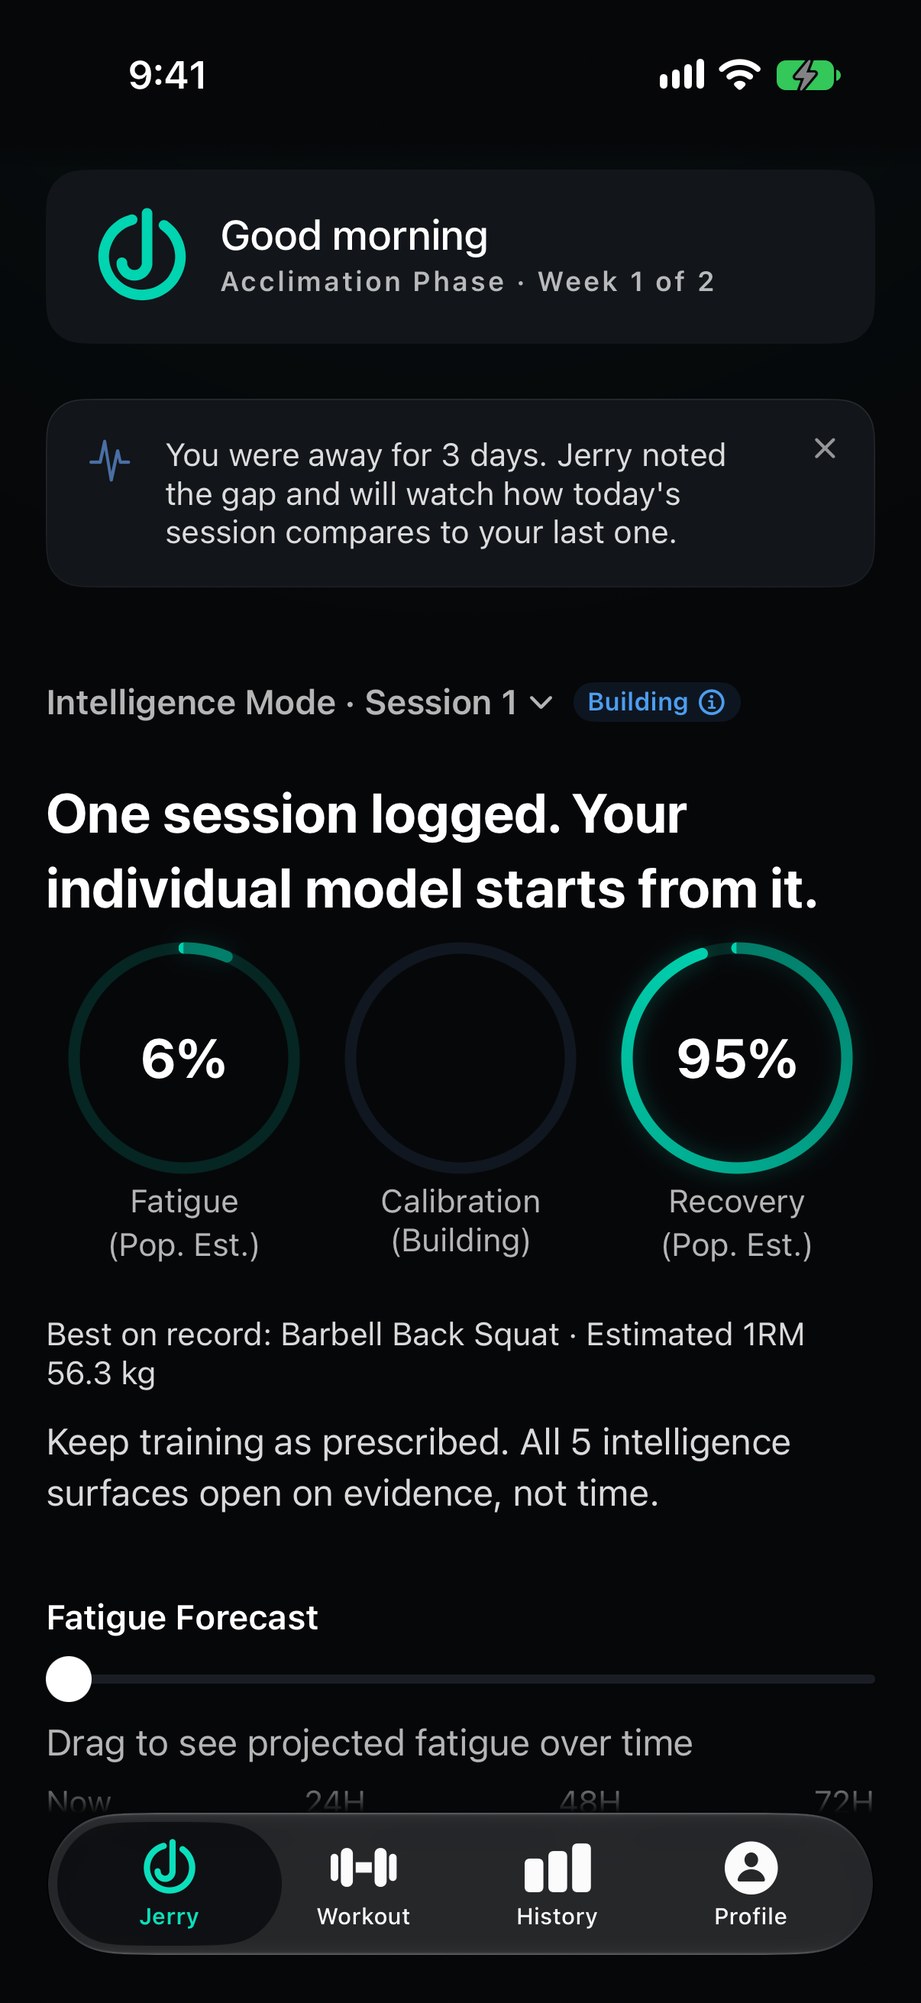
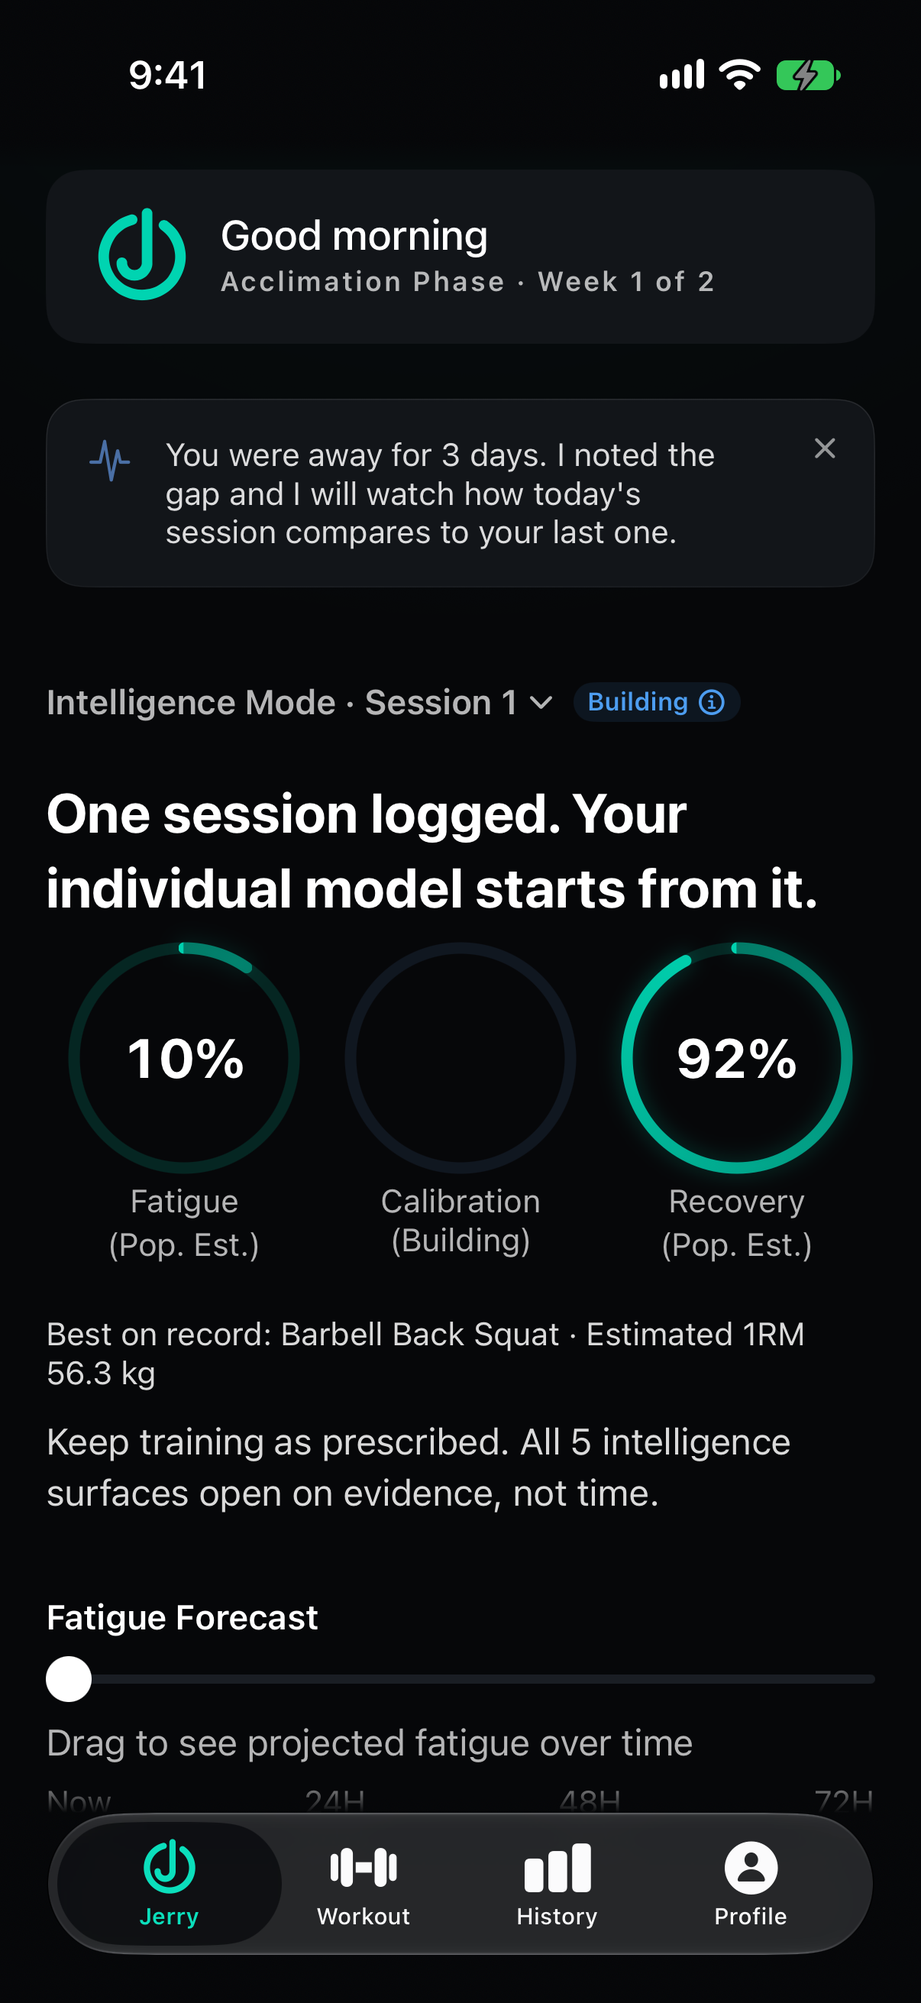
Every frame re-shot, because a coach who calls himself Jerry is not the product
[verify-exempt: SEPARATE website repo, zero Swift. Ten screenshots, two HTML files, one
string map. The app-side change (the banner itself) is committed separately behind its own
`verify.sh fast`. ./check.sh: SITE OK, exit 0, twelve gates, twenty pages.]

WHAT A USER CAN NOW DO: read a banner written in the voice of the coach who is talking to
them, and see the same four screens whichever language they read the site in.

THE CEO FOUND THREE THINGS IN TWO SCREENSHOTS AND ALL THREE WERE REAL.

1. 🔒 JERRY DOES NOT REFER TO JERRY. The dashboard banner read "You were away for 3 days.
   Jerry noted the gap and will watch..." while the other FIVE arms of that same function
   say "I will compare", "I'll ease", "I've adjusted", "I've noted", "We start". One
   third-person outlier, and it was the arm that renders on the hero and on frame one of
   the pressure test. Fixed in both languages, which invalidated every published frame.

2. 🔒 A LOCALISED PAGE IS A TRANSLATION OF ONE ARGUMENT, NOT A SECOND ARGUMENT. Two of the
   four English frames had NO Spanish test arm, so /es/ substituted two scrolled captures
   of a different screen. Both pages were internally honest and the PAIR was incoherent.
   Two new Spanish arms now photograph the answered-soreness dashboard and the Full
   Intelligence sheet, so the pages show the same four screens one-to-one.

3. THE SAME SCREENSHOT WAS USED THREE TIMES. `dashboard` appeared in the hero, the gallery
[…]

diff --git a/es/index.html b/es/index.html
@@ -178,8 +178,8 @@ details.raw pre{font-family:var(--mono);font-size:.6875rem;color:var(--ink3);ove
           <div class="device device--back">
             <div class="device__body"><div class="device__glass">
               <div class="device__screenwrap">
-                <img class="device__screen" src="/assets/shots/es-unlocks.webp?v=da9761d5e5" width="1206" height="2622" loading="lazy" decoding="async"
-                     alt="El panel de OrderedStrength más abajo, en español. Una tarjeta marcada Población dice Tu ritmo es normal y nombra su fuente, y debajo hay una puerta llamada Mapa de Desbloqueos cuyo subtítulo es Qué sigue y qué hace falta para abrirlo.">
+                <img class="device__screen" src="/assets/shots/es-evidence.webp?v=9c32c6dbb6" width="1206" height="2622" loading="lazy" decoding="async"
+                     alt="La hoja de Inteligencia completa en español, en la pestaña Biológico. Se titula Inteligencia de confianza, lleva la insignia Población, y enumera las investigaciones abiertas nombrando la evidencia que cada una todavía necesita.">
               </div>
               <span class="device__island" aria-hidden="true"></span><span class="device__sheen" aria-hidden="true"></span>
             </div></div>
@@ -188,8 +188,8 @@ details.raw pre{font-family:var(--mono);font-size:.6875rem;color:var(--ink3);ove
           <div class="device device--front">
             <div class="device__body"><div class="device__glass">
               <div class="device__screenwrap">
-                <img class="device__screen" src="/assets/shots/es-dashboard.webp?v=c91853bcce" width="1206" height="2622" fetchpriority="high" decoding="async"
-                     alt="El panel de OrderedStrength en español después de una sesión registrada. La insignia de modo dice Construyendo, los anillos de fatiga y recuperación están marcados Est. pobl. en 9 y 92 por ciento, y el anillo de Calibración no lleva ningún número.">
+                <img class="device__screen" src="/assets/shots/es-session3.webp?v=f83c5bfa87" width="1206" height="2622" fetchpriority="high" decoding="async"
+                     alt="El panel de OrderedStrength en español después de tres sesiones registradas. La insignia de modo dice Construyendo, la fatiga y la recuperación están marcadas Est. pobl. en 15 y 88 por ciento, y el titular dice que el modelo individual se construye con cada una.">
               </div>
               <span class="device__island" aria-hidden="true"></span><span class="device__sheen" aria-hidden="true"></span>
             </div></div>
@@ -291,7 +291,7 @@ details.raw pre{font-family:var(--mono);font-size:.6875rem;color:var(--ink3);ove
       <div class="device">
         <div class="device__body"><div class="device__glass">
           <div class="device__screenwrap">
-            <img class="device__screen" src="/assets/shots/es-dashboard.webp?v=c91853bcce" width="1206" height="2622" loading="lazy" decoding="async"
+            <img class="device__screen" src="/assets/shots/es-dashboard.webp?v=a3ce4874d0" width="1206" height="2622" loading="lazy" decoding="async"
                  alt="El panel de OrderedStrength en español después de una sesión registrada, con la insignia de Modo de inteligencia en Construyendo, los anillos de fatiga y recuperación marcados Est. pobl., y una línea que dice que las cinco superficies de inteligencia se abren con evidencia, no con tiempo.">
         <span class="pin" style="left:93.5%;top:38.5%" data-pin="0">1</span>
         <span class="pin" style="left:6.5%;top:68%" data-pin="1">2</span>
@@ -427,20 +427,20 @@ field   sealedFor = 1755916800</pre>
         <div class="device">
           <div class="device__body"><div class="device__glass">
             <div class="device__screenwrap">
-              <img class="device__screen" src="/assets/shots/es-dashboard.webp?v=c91853bcce" width="1206" height="2622" loading="lazy" decoding="async"
-                   alt="El panel en español después de una sesión registrada. La fatiga marca 9 por ciento y la recuperación 92 por ciento, ambas etiquetadas Est. pobl., el anillo de Calibración no lleva número, y lo más fuerte registrado es una Sentadilla Trasera con Barra con 1RM estimado 56.3 kg.">
+              <img class="device__screen" src="/assets/shots/es-dashboard.webp?v=a3ce4874d0" width="1206" height="2622" loading="lazy" decoding="async"
+                   alt="El panel en español después de una sesión registrada. La fatiga marca 10 por ciento y la recuperación 92 por ciento, ambas etiquetadas Est. pobl., el anillo de Calibración no lleva número, y lo más fuerte registrado es una Sentadilla Trasera con Barra con 1RM estimado 56.3 kg.">
             </div>
             <span class="device__island" aria-hidden="true"></span><span class="device__sheen" aria-hidden="true"></span>
           </div></div>
           <span class="device__key device__key--act" aria-hidden="true"></span><span class="device__key device__key--vup" aria-hidden="true"></span><span class="device__key device__key--vdn" aria-hidden="true"></span><span class="device__key device__key--pwr" aria-hidden="true"></span><span class="device__key device__key--cam" aria-hidden="true"></span>
         </div>
-        <figcaption><b>Lo que sabe</b><span>Fatiga  <code translate="no">9%</code>  y recuperación  <code translate="no">92%</code>, ambas estampadas  <code translate="no">(Est. pobl.)</code>. El anillo del medio dice  <code translate="no">(Construyendo)</code>  y no muestra número, porque una sesión no es calibración. Lo más fuerte registrado es una  <code translate="no">Sentadilla Trasera con Barra</code>  con  <code translate="no">1RM estimado 56.3 kg</code>, que es lo que de verdad pesan las primeras semanas de un principiante.</span></figcaption>
+        <figcaption><b>Lo que sabe</b><span>Fatiga  <code translate="no">10%</code>  y recuperación  <code translate="no">92%</code>, ambas estampadas  <code translate="no">(Est. pobl.)</code>. El anillo del medio dice  <code translate="no">(Construyendo)</code>  y no muestra número, porque una sesión no es calibración. Lo más fuerte registrado es una  <code translate="no">Sentadilla Trasera con Barra</code>  con  <code translate="no">1RM estimado 56.3 kg</code>, que es lo que de verdad pesan las primeras semanas de un principiante.</span></figcaption>
       </figure>
       <figure class="state">
         <div class="device">
           <div class="device__body"><div class="device__glass">
             <div class="device__screenwrap">
-              <img class="device__screen" src="/assets/shots/es-hundred.webp?v=e9025ccfb8" width="1206" height="2622" loading="lazy" decoding="async"
+              <img class="device__screen" src="/assets/shots/es-hundred.webp?v=ea59ca03a2" width="1206" height="2622" loading="lazy" decoding="async"
                    alt="El mismo panel en español después de cien sesiones registradas. El titular dice que la carga ahora viene de las propias series del atleta y no de promedios poblacionales, lo más fuerte registrado es una Sentadilla Trasera con Barra con 1RM estimado 129.2 kg, y el anillo de Calibración ahora marca 84 por ciento con la etiqueta Tu RIR.">
             </div>
             <span class="device__island" aria-hidden="true"></span><span class="device__sheen" aria-hidden="true"></span>
@@ -453,27 +453,27 @@ field   sealedFor = 1755916800</pre>
         <div class="device">
           <div class="device__body"><div class="device__glass">
             <div class="device__screenwrap">
-              <img class="device__screen" src="/assets/shots/es-mixed.webp?v=e70787582b" width="1206" height="2622" loading="lazy" decoding="async"
-                   alt="La misma pantalla de cien sesiones, más abajo. Una tarjeta dice que Jerry ya entrena tres de las seis áreas con los datos propios del atleta y lleva el marcador 3 de 6, A partir de tus datos. La tarjeta de al lado sigue marcada Población. Cada una lleva un enlace de Mostrar razonamiento.">
+              <img class="device__screen" src="/assets/shots/es-answered.webp?v=e3aebe149d" width="1206" height="2622" loading="lazy" decoding="async"
+                   alt="El mismo panel en español después de cien sesiones, esta vez con el dolor muscular del atleta reportado. La fatiga y la recuperación están etiquetadas Tus datos, la recuperación marca 73 por ciento, y el titular dice que su carga y su tasa de recuperación ahora se miden a partir de él.">>
             </div>
             <span class="device__island" aria-hidden="true"></span><span class="device__sheen" aria-hidden="true"></span>
           </div></div>
           <span class="device__key device__key--act" aria-hidden="true"></span><span class="device__key device__key--vup" aria-hidden="true"></span><span class="device__key device__key--vdn" aria-hidden="true"></span><span class="device__key device__key--pwr" aria-hidden="true"></span><span class="device__key device__key--cam" aria-hidden="true"></span>
         </div>
-        <figcaption><b>Qué es tuyo y qué sigue siendo población</b><span>La misma pantalla de al lado, más abajo. Una tarjeta dice  <code translate="no">Ahora entreno 3 de tus áreas de entrenamiento con tus propios datos</code>  y lleva el marcador  <code translate="no">3 de 6</code>,  <code translate="no">A partir de tus datos</code>. La de abajo sigue estampada  <code translate="no">Población</code>  y lo repite en su propia letra pequeña:  <code translate="no">100 sesiones / base poblacional</code>. Ninguna de las dos redondea hacia la que suena mejor. Cada tarjeta declara de dónde salió su número, y  <code translate="no">Mostrar razonamiento</code>  abre el recibo.</span></figcaption>
+        <figcaption><b>Lo que cambia cuando respondes</b><span>El mismo atleta y las mismas cien sesiones que la imagen de al lado, con una diferencia: le dijo a Jerry qué tan adolorido estaba el día después de entrenar. Las dos subetiquetas que decían estimación poblacional ahora dicen  <code translate="no">(Tus datos)</code>, la recuperación marca  <code translate="no">73%</code>, y la línea de arriba pasa a ser  <code translate="no">100 sesiones registradas. Tu carga y tu tasa de recuperación ahora se miden a partir de ti.</code>  Dicho sin rodeos en vez de montado: la suite de pruebas le entregó a la app ese dolor por la misma puerta que usa tu propia respuesta, y no se cambió nada más.</span></figcaption>
       </figure>
       <figure class="state">
         <div class="device">
           <div class="device__body"><div class="device__glass">
             <div class="device__screenwrap">
-              <img class="device__screen" src="/assets/shots/es-unlocks.webp?v=da9761d5e5" width="1206" height="2622" loading="lazy" decoding="async"
+              <img class="device__screen" src="/assets/shots/es-evidence.webp?v=9c32c6dbb6" width="1206" height="2622" loading="lazy" decoding="async"
                    alt="El final de la misma pantalla. Una tarjeta marcada Población dice Tu ritmo es normal y nombra su fuente, y debajo hay una puerta llamada Mapa de Desbloqueos cuyo subtítulo dice Qué sigue y qué hace falta para abrirlo.">
             </div>
             <span class="device__island" aria-hidden="true"></span><span class="device__sheen" aria-hidden="true"></span>
           </div></div>
           <span class="device__key device__key--act" aria-hidden="true"></span><span class="device__key device__key--vup" aria-hidden="true"></span><span class="device__key device__key--vdn" aria-hidden="true"></span><span class="device__key device__key--pwr" aria-hidden="true"></span><span class="device__key device__key--cam" aria-hidden="true"></span>
         </div>
-        <figcaption><b>Lo que todavía le falta</b><span>Al final de la misma pantalla hay una puerta llamada  <code translate="no">Mapa de Desbloqueos</code>, y su propio subtítulo dice para qué sirve:  <code translate="no">Qué sigue y qué hace falta para abrirlo</code>. No promete nada todavía. Nombra lo que le falta. Justo encima,  <code translate="no">Tu ritmo es normal</code>  llega estampado  <code translate="no">Población</code>  y con su fuente a la vista:  <code translate="no">de tus series registradas / últimas 6 semanas</code>.</span></figcaption>
+        <figcaption><b>Lo que todavía le falta</b><span>La misma hoja que la versión en inglés, en español: <code translate="no">Inteligencia de confianza</code>, estampada  <code translate="no">Población</code>. Su propia línea lo dice:  <code translate="no">Cada una nombra la evidencia que aún necesito.</code>  Y entonces lo hace, por su nombre:  <code translate="no">Primera comparación de carga repetida</code>, <code translate="no">Fenotipo metabólico</code>, y una tercera sobre tu huella de recuperación, cada una con lo que la cerraría.</span></figcaption>
       </figure>
     </div>
     <p class="small" style="margin-top:1.5rem">Cada una de estas fue fotografiada automáticamente por nuestra propia suite de pruebas, en un teléfono sin nada más. Si algún número aquí deja de coincidir con la app, lo que está mal es la captura.</p>

diff --git a/index.html b/index.html
@@ -178,7 +178,7 @@ details.raw pre{font-family:var(--mono);font-size:.6875rem;color:var(--ink3);ove
           <div class="device device--back">
             <div class="device__body"><div class="device__glass">
               <div class="device__screenwrap">
-                <img class="device__screen" src="/assets/shots/evidence.webp?v=7f031d6a7e" width="1206" height="2622" loading="lazy" decoding="async"
+                <img class="device__screen" src="/assets/shots/evidence.webp?v=11f2a19e01" width="1206" height="2622" loading="lazy" decoding="async"
                      alt="The Trust Intelligence screen, badged Population, listing open investigations and naming the evidence each one still needs before it will make a claim.">
               </div>
               <span class="device__island" aria-hidden="true"></span><span class="device__sheen" aria-hidden="true"></span>
@@ -188,8 +188,8 @@ details.raw pre{font-family:var(--mono);font-size:.6875rem;color:var(--ink3);ove
           <div class="device device--front">
             <div class="device__body"><div class="device__glass">
               <div class="device__screenwrap">
-                <img class="device__screen" src="/assets/shots/dashboard.webp?v=fa1ac92813" width="1206" height="2622" fetchpriority="high" decoding="async"
-                     alt="The OrderedStrength dashboard after one logged session. The mode badge reads Building, the fatigue and recovery rings are labelled Pop. Est. at 6 and 95 percent, and the Calibration ring carries no number at all.">
+                <img class="device__screen" src="/assets/shots/session3.webp?v=23c48961f8" width="1206" height="2622" fetchpriority="high" decoding="async"
+                     alt="The OrderedStrength dashboard after three logged sessions. The mode badge reads Building, fatigue and recovery are marked Pop. Est. at 15 and 88 percent, and the headline says the individual model is building from every session.">
               </div>
               <span class="device__island" aria-hidden="true"></span><span class="device__sheen" aria-hidden="true"></span>
             </div></div>
@@ -301,7 +301,7 @@ details.raw pre{font-family:var(--mono);font-size:.6875rem;color:var(--ink3);ove
       <div class="device">
         <div class="device__body"><div class="device__glass">
           <div class="device__screenwrap">
-            <img class="device__screen" src="/assets/shots/dashboard.webp?v=fa1ac92813" width="1206" height="2622" loading="lazy" decoding="async"
+            <img class="device__screen" src="/assets/shots/dashboard.webp?v=544dd871d9" width="1206" height="2622" loading="lazy" decoding="async"
                  alt="The OrderedStrength dashboard after one logged session, showing an Intelligence Mode badge reading Building, fatigue and recovery rings labelled Pop. Est., and a line reading that all five intelligence surfaces open on evidence, not time.">
         <span class="pin" style="left:79%;top:36.9%" data-pin="0">1</span>
         <span class="pin" style="left:6.5%;top:67.5%" data-pin="1">2</span>
@@ -437,20 +437,20 @@ field   sealedFor = 1755916800</pre>
         <div class="device">
           <div class="device__body"><div class="device__glass">
             <div class="device__screenwrap">
-              <img class="device__screen" src="/assets/shots/dashboard.webp?v=fa1ac92813" width="1206" height="2622" loading="lazy" decoding="async"
-                   alt="The dashboard after one logged session. Fatigue reads 6 percent and recovery 95 percent, both labelled Pop. Est., the Calibration ring carries no number, and the best lift on record is a Barbell Back Squat at an estimated one-rep maximum of 56.3 kilograms.">
+              <img class="device__screen" src="/assets/shots/dashboard.webp?v=544dd871d9" width="1206" height="2622" loading="lazy" decoding="async"
+                   alt="The dashboard after one logged session. Fatigue reads 10 percent and recovery 92 percent, both labelled Pop. Est., the Calibration ring carries no number, and the best lift on record is a Barbell Back Squat at an estimated one-rep maximum of 56.3 kilograms.">
             </div>
             <span class="device__island" aria-hidden="true"></span><span class="device__sheen" aria-hidden="true"></span>
           </div></div>
           <span class="device__key device__key--act" aria-hidden="true"></span><span class="device__key device__key--vup" aria-hidden="true"></span><span class="device__key device__key--vdn" aria-hidden="true"></span><span class="device__key device__key--pwr" aria-hidden="true"></span><span class="device__key device__key--cam" aria-hidden="true"></span>
         </div>
-        <figcaption><b>What it knows</b><span>Fatigue <code translate="no">6%</code> and recovery <code translate="no">95%</code>, both stamped <code translate="no">Pop. Est.</code> The middle ring says <code translate="no">Calibration (Building)</code> and shows no number, because one session is not calibration. The strongest thing on record is a <code translate="no">Barbell Back Squat</code> at <code translate="no">Estimated 1RM 56.3 kg</code>, which is what a beginner's first weeks actually weigh.</span></figcaption>
+        <figcaption><b>What it knows</b><span>Fatigue <code translate="no">10%</code> and recovery <code translate="no">92%</code>, both stamped <code translate="no">Pop. Est.</code> The middle ring says <code translate="no">Calibration (Building)</code> and shows no number, because one session is not calibration. The strongest thing on record is a <code translate="no">Barbell Back Squat</code> at <code translate="no">Estimated 1RM 56.3 kg</code>, which is what a beginner's first weeks actually weigh.</span></figcaption>
       </figure>
       <figure class="state">
         <div class="device">
           <div class="device__body"><div class="device__glass">
             <div class="device__screenwrap">
-              <img class="device__screen" src="/assets/shots/hundred.webp?v=f8383d7930" width="1206" height="2622" loading="lazy" decoding="async"
+              <img class="device__screen" src="/assets/shots/hundred.webp?v=758a6887a4" width="1206" height="2622" loading="lazy" decoding="async"
                    alt="The same dashboard after one hundred logged sessions. The headline says the load now comes from the athlete's own sets rather than population averages, the best lift on record is a Barbell Back Squat at Estimated 1RM 129.2 kg, and the Calibration ring now reads 84 percent labelled Your RIR.">
             </div>
             <span class="device__island" aria-hidden="true"></span><span class="device__sheen" aria-hidden="true"></span>
@@ -476,7 +476,7 @@ field   sealedFor = 1755916800</pre>
         <div class="device">
           <div class="device__body"><div class="device__glass">
             <div class="device__screenwrap">
-              <img class="device__screen" src="/assets/shots/evidence.webp?v=7f031d6a7e" width="1206" height="2622" loading="lazy" decoding="async"
+              <img class="device__screen" src="/assets/shots/evidence.webp?v=11f2a19e01" width="1206" height="2622" loading="lazy" decoding="async"
                    alt="The Trust Intelligence screen, listing open investigations and the evidence each one still needs before it will make a claim.">
             </div>
             <span class="device__island" aria-hidden="true"></span><span class="device__sheen" aria-hidden="true"></span>

diff --git a/tools/es_strings.py b/tools/es_strings.py
@@ -96,8 +96,8 @@ ASSETS = {
     # what already reads from your data versus what is still population, and the Unlock Map that
     # names what is missing. Every caption is authored from those frames' own pixels.
     # When a Spanish arm for either English screen exists, publish it and repoint the row.
-    '/assets/shots/answered.webp':  '/assets/shots/es-mixed.webp',
-    '/assets/shots/evidence.webp':  '/assets/shots/es-unlocks.webp',
+    '/assets/shots/answered.webp':  '/assets/shots/es-answered.webp',
+    '/assets/shots/evidence.webp':  '/assets/shots/es-evidence.webp',
 }
 
 
